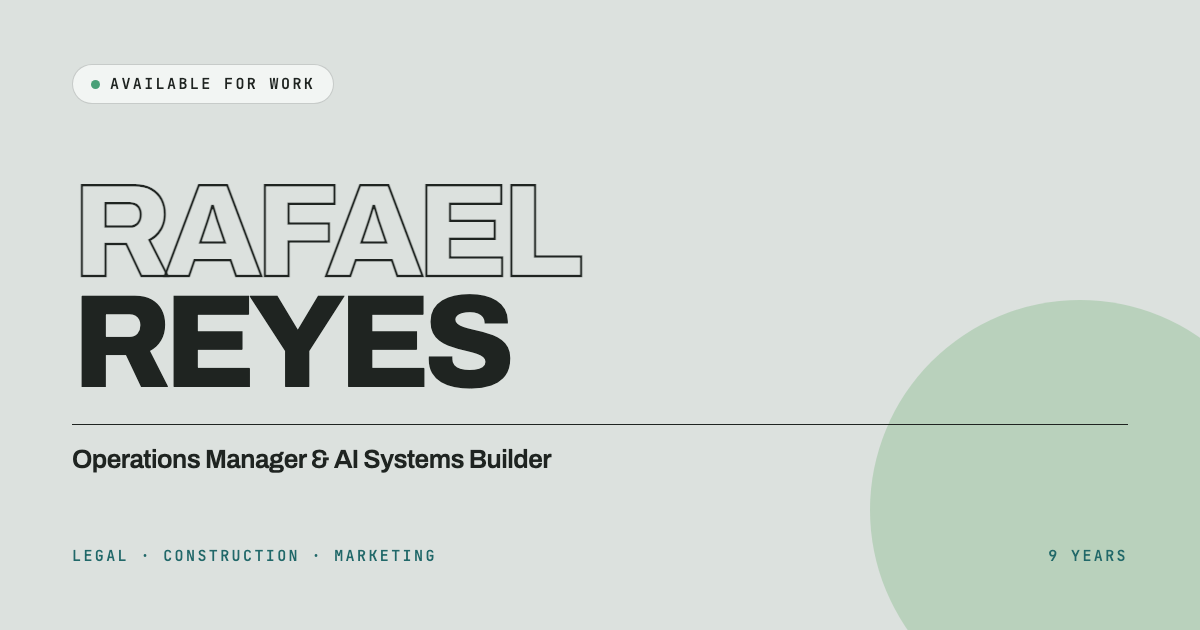
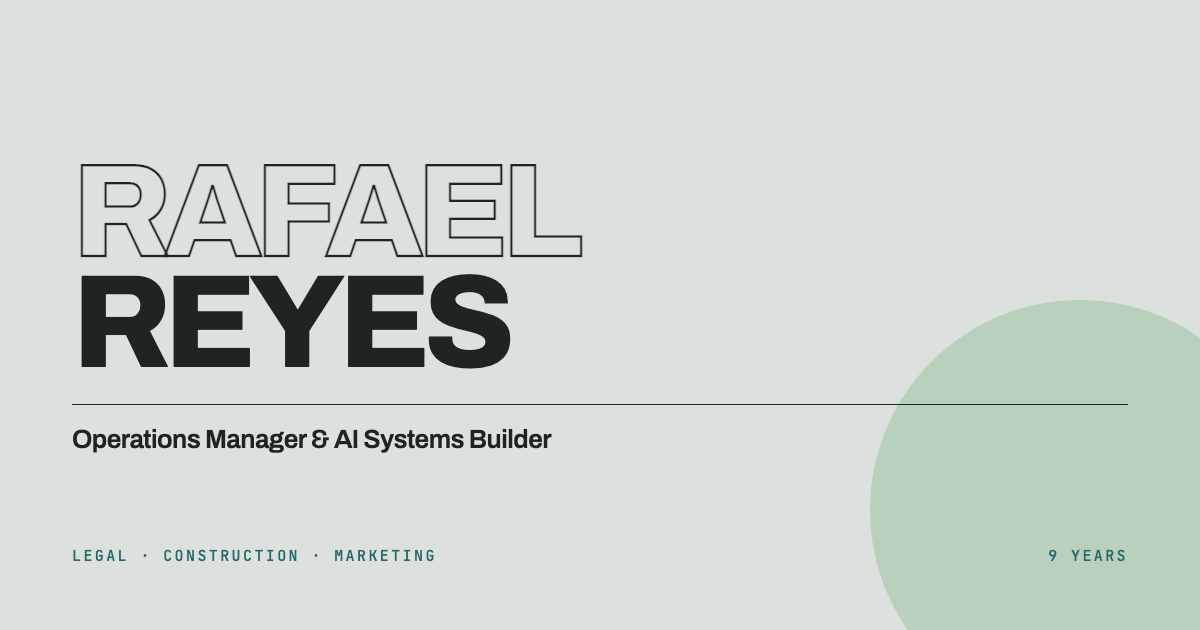
Remove availability signals
Takes out the "Available for work" pills from the hero and contact
section, the "Open to / New opportunities" spec cell, the "Status: Open
to conversations" row on the about page, and the pill on the social card
(regenerated).

The contact section's headline and copy were pitching for work, which
contradicted the rest of the change — reworded to invite a conversation
instead. Revert that separately if the original wording is wanted back.

Drops .status, .status__dot and the pulse keyframes, which this change
orphaned. README documents how to put the signal back.

Changed region(s): [[0.0617, 0.2413, 0.4933, 0.6333], [0.0617, 0.6635, 0.4625, 0.754], [0.0925, 0.1206, 0.2775, 0.1508]]

diff --git a/index.html b/index.html
@@ -47,7 +47,6 @@
   <!-- ===================== HERO ===================== -->
   <header class="hero wrap">
     <div class="hero__top">
-      <span class="status mono"><i class="status__dot"></i>Available for work</span>
       <p class="hero__role">Operations Manager <em>&amp;</em> AI Systems Builder</p>
     </div>
 
@@ -70,7 +69,6 @@
     </p>
 
     <div class="spec">
-      <div class="spec__cell"><span class="spec__k mono">Open to</span><span class="spec__v">New opportunities</span></div>
       <div class="spec__cell"><span class="spec__k mono">Discipline</span><span class="spec__v">Operations &amp; internal tooling</span></div>
       <div class="spec__cell"><span class="spec__k mono">Sectors</span><span class="spec__v">Legal · Construction · Marketing</span></div>
       <div class="spec__cell"><span class="spec__k mono">Experience</span><span class="spec__v">9 years</span></div>
@@ -431,11 +429,10 @@
   <!-- ===================== CONTACT ===================== -->
   <section class="section wrap" id="contact">
     <div class="cta">
-      <span class="status mono"><i class="status__dot"></i>Available for work</span>
-      <h2 class="cta__h">Got something that<br>needs <em>running properly?</em></h2>
+      <h2 class="cta__h">Want to <em>talk shop?</em></h2>
       <p class="lead mute" style="text-align:center">
-        Whether that's owning operations day to day or building the system that finally
-        makes them predictable — tell me what's breaking and I'll tell you how I'd fix it.
+        Always glad to talk operations, internal tooling, or how any of the systems above
+        actually got built. The inbox is open.
       </p>
       <div class="cta__row">
         <a class="btn btn--go" href="mailto:Reyesralf17@gmail.com">Email me <span class="btn__arw">↗</span></a>

diff --git a/assets/css/base.css b/assets/css/base.css
@@ -141,30 +141,6 @@ h1, h2, h3, h4 {
 .dark .btn--line { border-color: var(--rule-dk); color: var(--paper); }
 .dark .btn--line:hover { background: var(--green); color: var(--ink); border-color: var(--green); }
 
-/* ---------- Status pill ---------- */
-
-.status {
-  display: inline-flex; align-items: center; gap: .55rem;
-  padding: .5rem 1rem .5rem .8rem;
-  border: 1px solid var(--rule);
-  border-radius: 999px;
-  background: var(--card);
-}
-.dark .status { border-color: var(--rule-dk); background: var(--ink-2); }
-
-.status__dot {
-  width: 7px; height: 7px; border-radius: 50%;
-  background: var(--green);
-  box-shadow: 0 0 0 0 rgba(73,160,120,.7);
-  animation: pulse 2.4s var(--ease) infinite;
-  flex: none;
-}
-@keyframes pulse {
-  0%   { box-shadow: 0 0 0 0 rgba(73,160,120,.55); }
-  70%  { box-shadow: 0 0 0 7px rgba(73,160,120,0); }
-  100% { box-shadow: 0 0 0 0 rgba(73,160,120,0); }
-}
-
 /* ---------- Tags ---------- */
 
 .tags { display: flex; flex-wrap: wrap; gap: .4rem; }

diff --git a/about.html b/about.html
@@ -59,7 +59,6 @@
       <div class="cmeta__c"><span class="cmeta__k mono">Discipline</span><span class="cmeta__v">Operations &amp; internal tooling</span></div>
       <div class="cmeta__c"><span class="cmeta__k mono">Experience</span><span class="cmeta__v">9 years</span></div>
       <div class="cmeta__c"><span class="cmeta__k mono">Sectors</span><span class="cmeta__v">Legal · Construction · Marketing</span></div>
-      <div class="cmeta__c"><span class="cmeta__k mono">Status</span><span class="cmeta__v">Open to conversations</span></div>
     </div>
 
     <div class="two two--sticky" style="padding-bottom:var(--sec)">

diff --git a/mockups/og.html b/mockups/og.html
@@ -14,7 +14,7 @@ p{font-size:26px;font-weight:600;letter-spacing:-.02em;position:relative;z-index
 .rule{height:1px;background:#1f2421;margin:26px 0 20px;position:relative;z-index:1}
 .foot{display:flex;justify-content:space-between;color:#216869;position:relative;z-index:1}
 </style></head><body>
-<span class="pill mono"><i class="dot"></i>Available for work</span>
+<span></span>
 <div>
   <h1><span class="o">Rafael</span><span>Reyes</span></h1>
   <div class="rule"></div>

diff --git a/README.md b/README.md
@@ -104,7 +104,20 @@ marketing pages with nothing private on them.
 **Keep it that way.** If you swap in a real screenshot, check it at full resolution for
 names, addresses, figures and third parties first.
 
-## 5. Analytics
+## 5. Availability
+
+The site carries no "available for work" signal. To put one back, three places:
+
+- `index.html` hero — a pill above the name
+- `index.html` contact section — a pill above the headline, plus the headline and
+  supporting copy, which currently invite conversation rather than pitch for work
+- `mockups/og.html` — the social card pill; re-render it afterwards (see Images)
+
+The `.status` / `.status__dot` CSS and its `pulse` keyframes were removed when the
+pills came out. Restore them from git history rather than rewriting:
+`git log -S"status__dot" -- assets/css/base.css`
+
+## 6. Analytics
 
 Vercel Web Analytics, added as one tag on every page:
 
@@ -123,7 +136,7 @@ on it.
 To add Speed Insights later, the same pattern applies with
 `/_vercel/speed-insights/script.js`.
 
-## 6. Deploying
+## 7. Deploying
 
 Static — any host works. Drag the folder into Netlify, or:
 
@@ -147,7 +160,7 @@ grep -rl "$OLD" --include=*.html --include=*.xml --include=*.txt --include=*.py 
 python3 mockups/build_cases.py
 ```
 
-## 7. Browser support
+## 8. Browser support
 
 Modern evergreen browsers. Uses `:has()`-free CSS, CSS nesting-free syntax, WebP,
 `overflow: clip`, `inert`, and `IntersectionObserver`. Reduced motion is respected —
